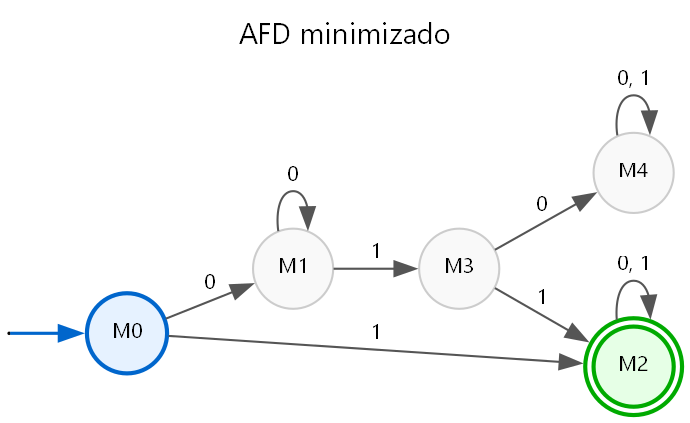
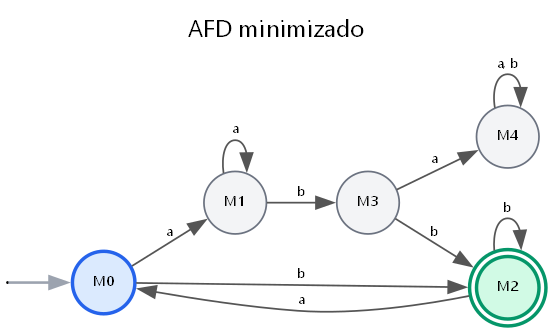
FEAT: Normalização das imagens do automato dentro no tk

diff --git a/backend/automata.py b/backend/automata.py
@@ -445,9 +445,9 @@ def generate_graphviz_image(automaton, filename: str = "automaton", title: str =
         os.environ["PATH"] += os.pathsep + graphviz_bin
 
     dot = graphviz.Digraph(format="png")
-    dot.attr(rankdir="LR", size="8,5", dpi="150")
-    dot.attr("node", fontname="Segoe UI", fontsize="10")
-    dot.attr("edge", fontname="Segoe UI", fontsize="10")
+    dot.attr(rankdir="LR", size="8", dpi="125")
+    dot.attr("node", fontname="Segoe UI", fontsize="8")
+    dot.attr("edge", fontname="Segoe UI", fontsize="8")
 
     if title:
         dot.attr(label=title, labelloc="t", fontname="Segoe UI", fontsize="14")
@@ -460,8 +460,8 @@ def generate_graphviz_image(automaton, filename: str = "automaton", title: str =
                 state,
                 shape="doublecircle",
                 style="filled",
-                fillcolor="#e6ffe6",
-                color="#00aa00",
+                fillcolor="#d1fae5",
+                color="#059669",
                 penwidth="2"
             )
         elif state == automaton.initial_state:
@@ -469,8 +469,8 @@ def generate_graphviz_image(automaton, filename: str = "automaton", title: str =
                 state,
                 shape="circle",
                 style="filled",
-                fillcolor="#e6f2ff",
-                color="#0066cc",
+                fillcolor="#dbeafe",
+                color="#2563eb",
                 penwidth="2"
             )
         else:
@@ -478,11 +478,11 @@ def generate_graphviz_image(automaton, filename: str = "automaton", title: str =
                 state,
                 shape="circle",
                 style="filled",
-                fillcolor="#f9f9f9",
-                color="#cccccc"
+                fillcolor="#f3f4f6",
+                color="#6b7280"
             )
 
-    dot.edge("empty_start", automaton.initial_state, color="#0066cc", penwidth="1.5")
+    dot.edge("empty_start", automaton.initial_state, color="#9ca3af", penwidth="1.5")
 
     grouped_transitions = {}
     for (source, symbol), targets in automaton.transitions.items():

diff --git a/frontend/app.py b/frontend/app.py
@@ -262,6 +262,17 @@ class TheoryApp(tk.Tk):
                 combined.paste(img, (0, y_offset))
                 y_offset += img.height + margin
 
+            # Reduz a imagem mantendo boa qualidade
+            scale = 0.7
+
+            combined = combined.resize(
+                (
+                    int(combined.width * scale),
+                    int(combined.height * scale)
+                ),
+                Image.Resampling.LANCZOS
+)
+
             self._photo_image = ImageTk.PhotoImage(combined)
             self._image_canvas.delete("all")
             self._canvas_image_id = self._image_canvas.create_image(
